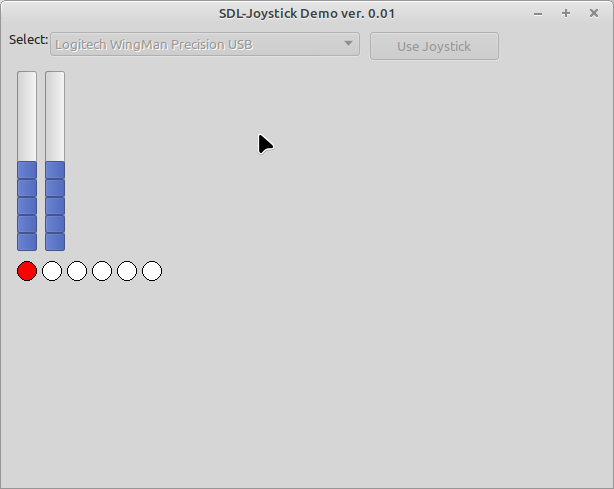
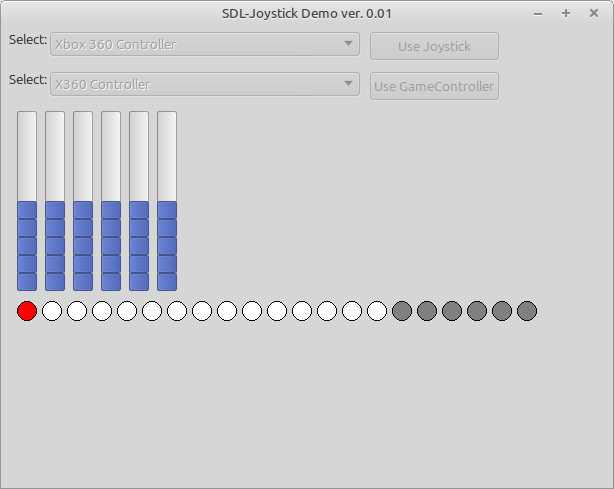
ADD: Update docu

diff --git a/README.md b/README.md
@@ -34,7 +34,7 @@ Collection of classes and examples that are mainly related to OpenGL implementat
 Collection of classes and examples corresponding to the usement of SDL2
 | Example | Description |
 | --- | --- |
-| [Joystick_Demo](SDL2/Joystick_Demo) | Demo for usdl_joystick.pas |
+| [Joystick_Demo](SDL2/Joystick_Demo) | Demo for usdl_joystick.pas and usdl_gamecontroller.pas |
 | usdl_joystick.pas | class to easy access to joysticks |
 | usdl_gamecontroller.pas | class to easy access to gamecontrollers |
 
